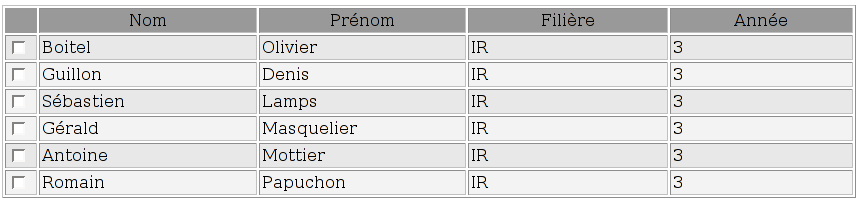
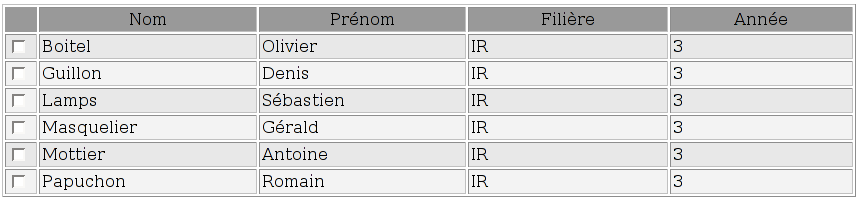
Mise àjours des specs graphiques du client léger.

diff --git a/trunk/docs/specs_ig/client_leger/liste.html b/trunk/docs/specs_ig/client_leger/liste.html
@@ -59,9 +59,9 @@
 
       <td style="background-color: rgb(243, 243, 243); width: 26px;"><input name="test" value="test" type="checkbox"></td>
 
-      <td style="background-color: rgb(232, 232, 232); width: 212px;">S&eacute;bastien</td>
+      <td style="background-color: rgb(232, 232, 232); width: 212px;">Lamps</td>
 
-      <td style="background-color: rgb(232, 232, 232); width: 201px;">Lamps</td>
+      <td style="background-color: rgb(232, 232, 232); width: 201px;">S&eacute;bastien</td>
 
       <td style="background-color: rgb(232, 232, 232); width: 196px;">IR</td>
 
@@ -73,9 +73,9 @@
 
       <td style="background-color: rgb(243, 243, 243); width: 26px;"><input name="test" value="test" type="checkbox"></td>
 
-      <td style="background-color: rgb(243, 243, 243); width: 212px;">G&eacute;rald</td>
+      <td style="background-color: rgb(243, 243, 243); width: 212px;">Masquelier</td>
 
-      <td style="background-color: rgb(243, 243, 243); width: 201px;">Masquelier</td>
+      <td style="background-color: rgb(243, 243, 243); width: 201px;">G&eacute;rald</td>
 
       <td style="background-color: rgb(243, 243, 243); width: 196px;">IR</td>
 
@@ -87,9 +87,9 @@
 
       <td style="background-color: rgb(232, 232, 232); width: 26px;"><input name="test" value="test" type="checkbox"></td>
 
-      <td style="background-color: rgb(232, 232, 232); width: 212px;">Antoine</td>
+      <td style="background-color: rgb(232, 232, 232); width: 212px;">Mottier</td>
 
-      <td style="background-color: rgb(232, 232, 232); width: 201px;">Mottier</td>
+      <td style="background-color: rgb(232, 232, 232); width: 201px;">Antoine</td>
 
       <td style="background-color: rgb(232, 232, 232); width: 196px;">IR</td>
 
@@ -101,9 +101,9 @@
 
       <td style="background-color: rgb(243, 243, 243); width: 26px;"><input name="test" value="test" type="checkbox"></td>
 
-      <td style="background-color: rgb(243, 243, 243); width: 212px;">Romain</td>
+      <td style="background-color: rgb(243, 243, 243); width: 212px;">Papuchon</td>
 
-      <td style="background-color: rgb(243, 243, 243); width: 201px;">Papuchon</td>
+      <td style="background-color: rgb(243, 243, 243); width: 201px;">Romain</td>
 
       <td style="background-color: rgb(243, 243, 243); width: 196px;">IR</td>
 
